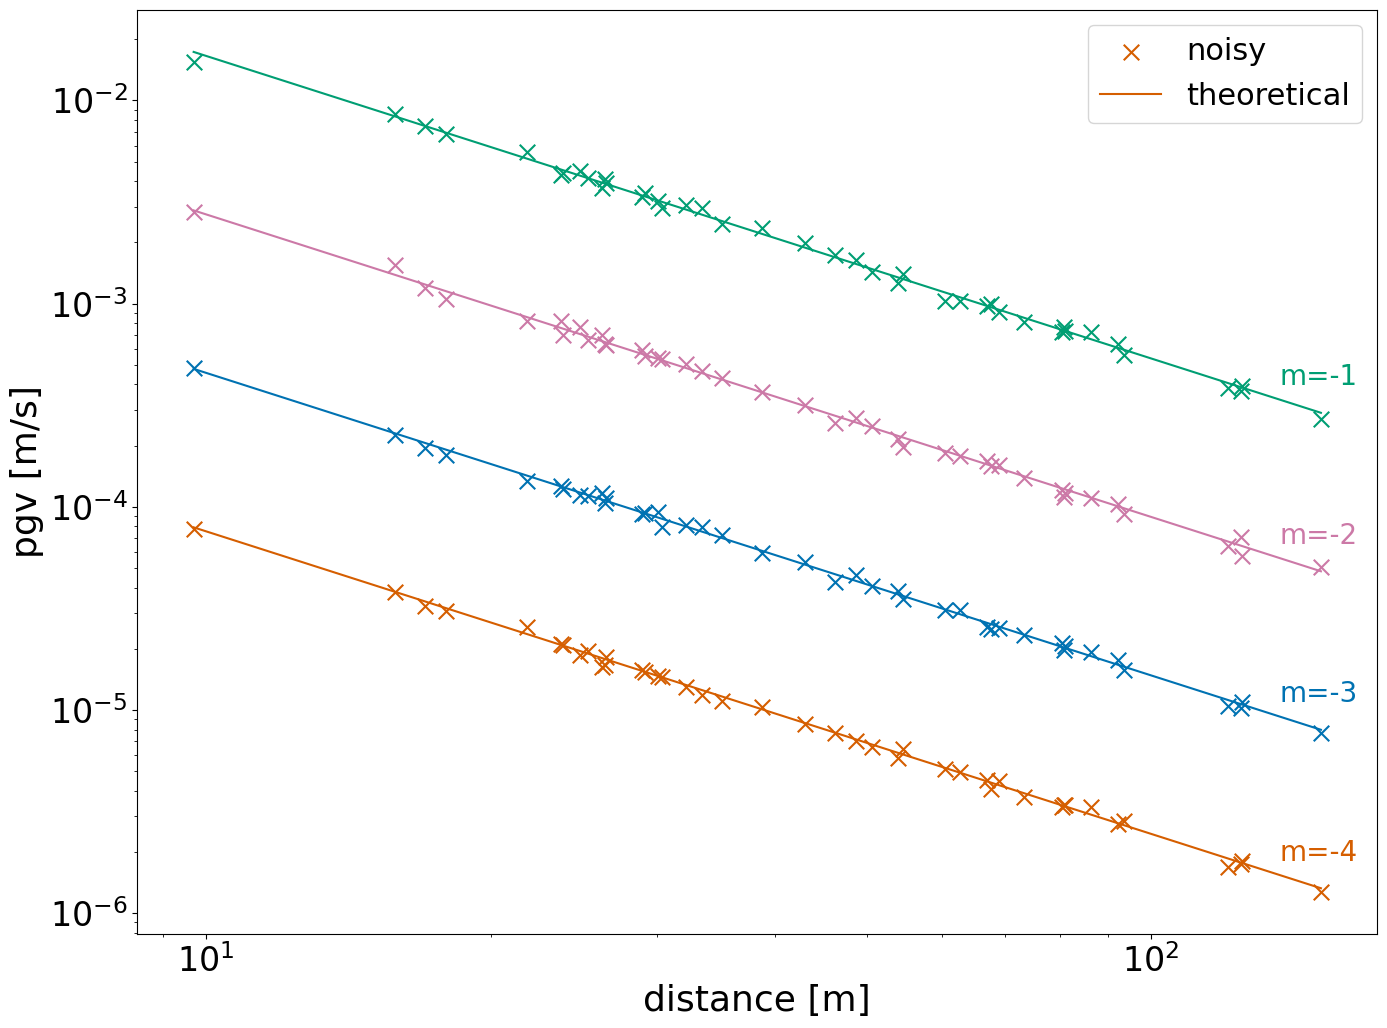
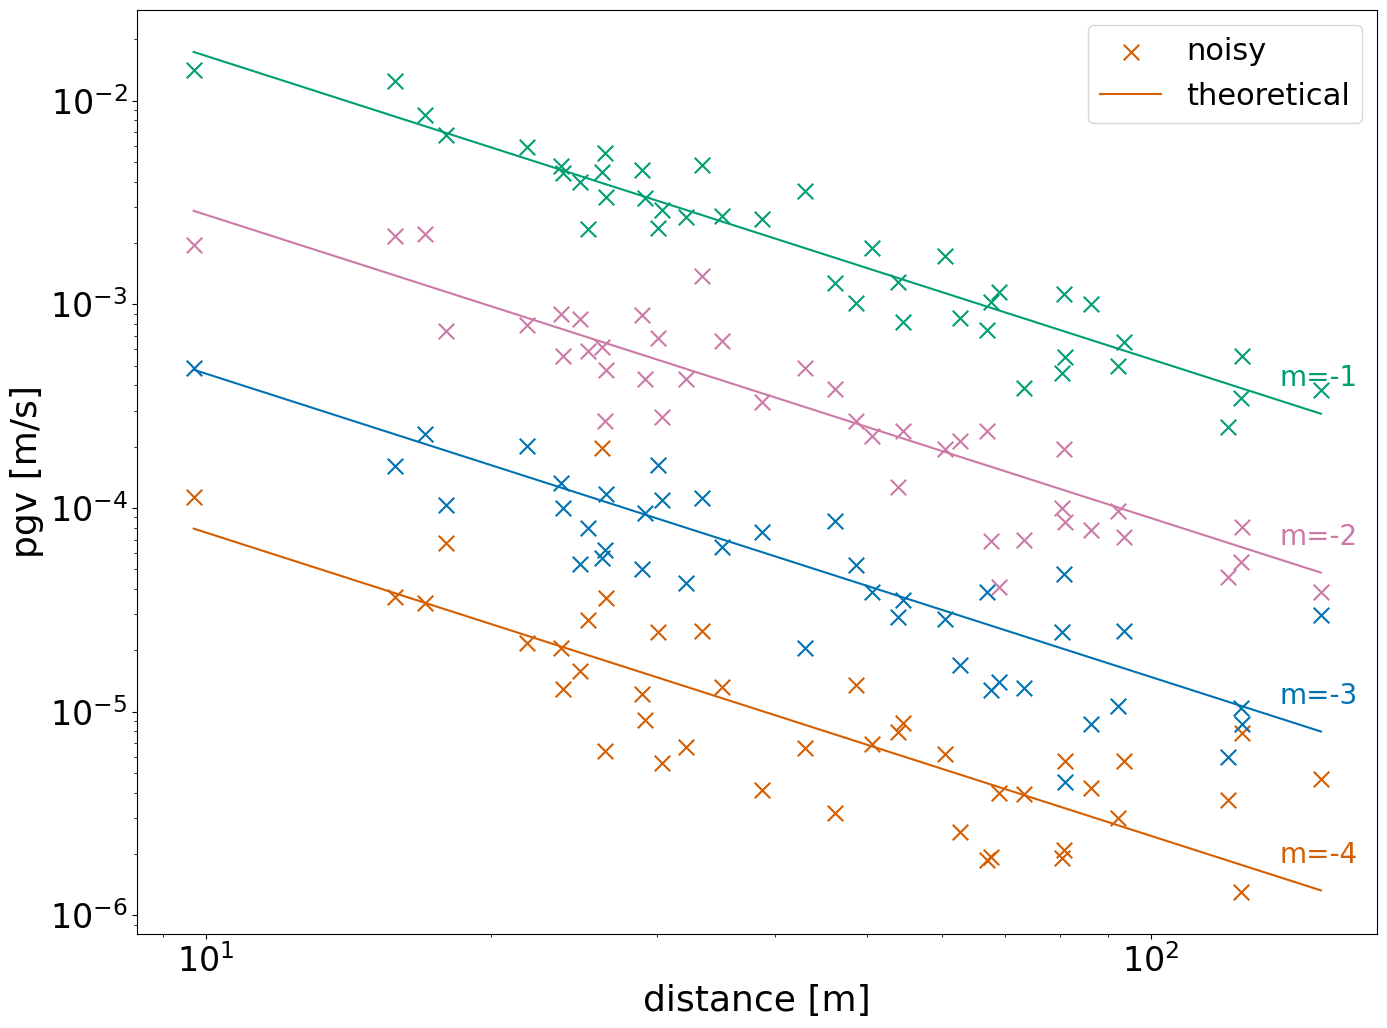
fix: noise for amplitude

diff --git a/plots_data.py b/plots_data.py
@@ -173,10 +173,11 @@ plt.figure(figsize=(16, 12))
 magnitudes = [-4, -3, -2, -1]
 colors = ['#D55E00', '#0072B2', '#CC79A7', '#009E73']
 for i, mag in enumerate(magnitudes):
-
     gmvs = Butler_VanAswegen_1993(mag, distances)[0]
-    noise_gmv = np.random.normal(0, gmvs*0.05, gmvs.shape)
-    gmvs_n = gmvs + noise_gmv
+
+    er = np.random.normal(0, np.abs(np.log10(gmvs))*0.05, gmvs.shape)
+    gmvs_n = gmvs * 10**er
+
     plt.scatter(distances, gmvs_n, marker='x', color=colors[i],
                 s=125, label='noisy')
     plt.plot(distances, gmvs, color=colors[i], label='theoretical')

diff --git a/src/synthetics/create_associations.py b/src/synthetics/create_associations.py
@@ -78,10 +78,8 @@ def create_associations(catalog: pd.DataFrame,
     gmvs = np.apply_along_axis(butler_proxy, 0, distances)
 
     if add_noise:  # add noise to gmvs
-        noise_gmv = np.random.normal(
-            0, gmvs*noise_factor*noise_gmv, gmvs.shape)
-        gmvs += np.clip(noise_gmv, -0.99*gmvs, 3*gmvs)
-        gmvs = np.maximum(gmvs, 1e-8)
+        er = np.random.normal(0, np.abs(np.log10(gmvs))*0.05, gmvs.shape)
+        gmvs = gmvs * 10**er
 
     # calculate a cutoff and discard picks below the cutoff
     cutoff = np.percentile(gmvs, percentile)

diff --git a/create_synthetic_data.py b/create_synthetic_data.py
@@ -59,10 +59,10 @@ def create_synthetic_data(out_dir: Path,
 if __name__ == '__main__':
     stations = inventory_to_stations('stations/station_cords_blab_VALTER.csv')
     out_dir = Path('data/raw')
-    min_events = 50
-    max_events = 50
-    duration = 1
-    n_catalogs = 10
+    min_events = 5
+    max_events = 1000
+    duration = 10
+    n_catalogs = 100
     add_noise = True
     noise_factor = 1
 
